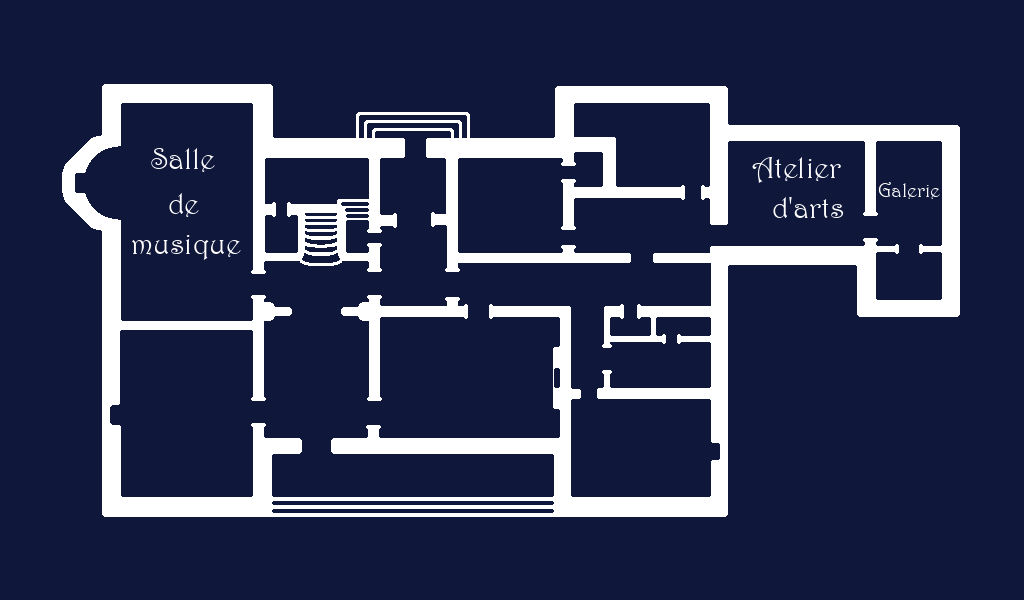
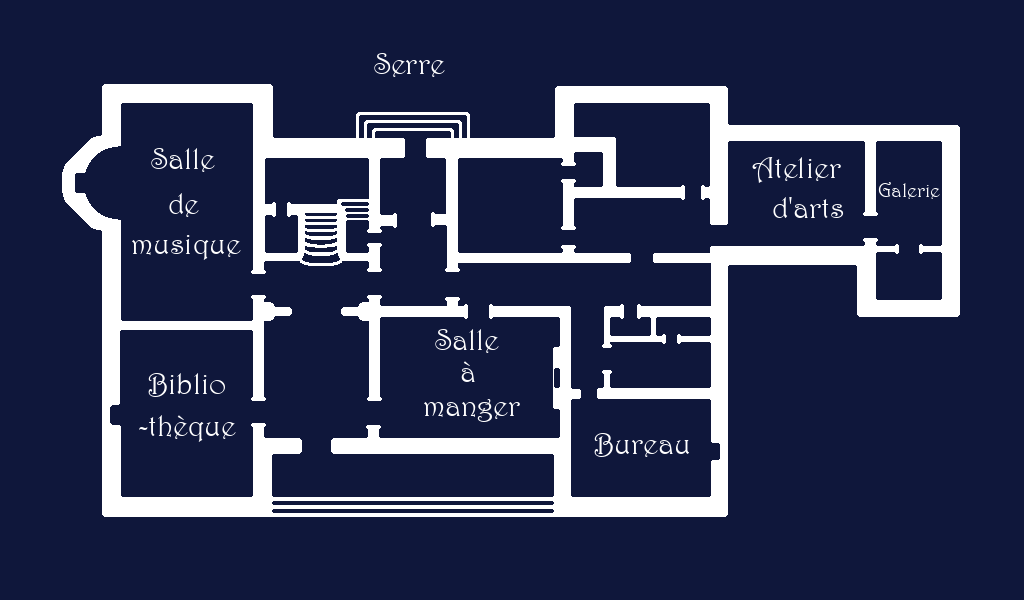
[WIP] Manoir

diff --git a/src/app/pages/manor/dining-room/dining-room.component.ts b/src/app/pages/manor/dining-room/dining-room.component.ts
@@ -1,0 +1,128 @@
+import { Component } from '@angular/core';
+import { CommonModule, KeyValue } from '@angular/common';
+
+import { TopBarComponent } from '../../../components/ui/top-bar/top-bar.component';
+
+@Component({
+    selector: 'app-dining-room',
+    imports: [
+        CommonModule,
+        TopBarComponent
+    ],
+    templateUrl: './dining-room.component.html',
+    styleUrl: './dining-room.component.scss'
+})
+export class DiningRoomComponent {
+    imgPath:string = '/assets/images/manor/dining-room/';
+    pageText:string = "Texte d'explication de la page";
+    digitsRotation = 0;
+    symbolsRotation = 0;
+    digits:object = {
+        1: {
+            'value': 1,
+            'rotation': 30
+        },
+        2: {
+            'value': 2,
+            'rotation': 60
+        },
+        3: {
+            'value': 3,
+            'rotation': 90
+        },
+        4: {
+            'value': 4,
+            'rotation': 120
+        },
+        5: {
+            'value': 5,
+            'rotation': 150
+        },
+        6: {
+            'value': 6,
+            'rotation': 180
+        },
+        7: {
+            'value': 7,
+            'rotation': -150
+        },
+        8: {
+            'value': 8,
+            'rotation': -120
+        },
+        9: {
+            'value': 9,
+            'rotation': -90
+        },
+        10: {
+            'value': 10,
+            'rotation': -60
+        },
+        11: {
+            'value': 11,
+            'rotation': -30
+        },
+        12: {
+            'value': 12,
+            'rotation': 0
+        }
+    };
+    symbols:object = {
+        1: {
+            'value': 1,
+            'rotation': -15
+        },
+        2: {
+            'value': 2,
+            'rotation': 15
+        },
+        3: {
+            'value': 3,
+            'rotation': 45
+        },
+        4: {
+            'value': 4,
+            'rotation': 75
+        },
+        5: {
+            'value': 5,
+            'rotation': 105
+        },
+        6: {
+            'value': 6,
+            'rotation': 135
+        },
+        7: {
+            'value': 7,
+            'rotation': 165
+        },
+        8: {
+            'value': 8,
+            'rotation': -165
+        },
+        9: {
+            'value': 9,
+            'rotation': -135
+        },
+        10: {
+            'value': 10,
+            'rotation': -105
+        },
+        11: {
+            'value': 11,
+            'rotation': -75
+        },
+        12: {
+            'value': 12,
+            'rotation': -45
+        }
+    };
+
+    setDigitsRotation(value:number) {
+        this.digitsRotation = value;
+    }
+
+    setSymbolsRotation(value:number) {
+        this.symbolsRotation = value;
+    }
+}

diff --git a/src/app/pages/manor/dining-room/dining-room.component.scss b/src/app/pages/manor/dining-room/dining-room.component.scss
@@ -1,0 +1,104 @@
+@use "../../../../styles/includes.scss" as *;
+
+.app_dining_room {
+	overflow: auto;
+
+	&__box {
+		@include flexCenter;
+		min-height: calc(100vh - $topBarHeight);
+		min-width: 690px;
+		background: #0f272f;
+	}
+
+	&__clock {
+		width: 690px;
+		height: 700px;
+		position: relative;
+	}
+
+	&__hand {
+		position: absolute;
+		width: 300px;
+		height: 300px;
+		left: 0;
+		right: 0;
+		bottom: 0;
+		top: 0;
+		margin: auto;
+
+		img {
+			position: absolute;
+			left: 0;
+			right: 0;
+			margin: auto;
+		}
+
+		&--digits img {	
+			bottom: calc(50% - 14px);
+		}
+
+		&--symbols img {	
+			bottom: calc(50% - 14px);
+		}
+	}
+
+	&__list_triggers {
+		pointer-events: none;
+
+		li {
+			position: absolute;
+			left: 0;
+			right: 0;
+			margin: auto;
+			text-align: center;
+
+			> span {
+				display: block;
+			}
+		}
+
+		&--digits {
+			position: absolute;
+			width: 332px;
+			height: 332px;
+			top: 186px;
+			left: 180px;
+
+			li {
+				top: 0;
+				height: 100%;
+				width: 50px;
+			}
+		}
+
+		&--symbols {
+			position: absolute;
+			width: 575px;
+			height: 565px;
+			top: 70px;
+			left: 60px;
+
+			li {
+				top: 0;
+				height: 100%;
+				width: 100px;
+			}
+		}
+	}
+
+	&__digit {
+		pointer-events: all;
+		display: block;
+		width: 100%;
+		height: 70px;
+		cursor: pointer;
+	}
+
+	&__symbol {
+		pointer-events: all;
+		display: block;
+		width: 100%;
+		height: 90px;
+		cursor: pointer;
+	}
+}

diff --git a/src/app/pages/manor/dining-room/dining-room.component.html b/src/app/pages/manor/dining-room/dining-room.component.html
@@ -1,0 +1,24 @@
+<app-top-bar [backLink]="'/manoir/carte'" [pageText]="pageText"></app-top-bar>
+<div class="app_dining_room">
+	<div class="app_dining_room__box">
+		<div class="app_dining_room__clock">
+			<img [src]="imgPath + 'clock.png'"/>
+			<div class="app_dining_room__hand app_dining_room__hand--digits" [style]="'transform: rotate(' + digitsRotation + 'deg);'">
+				<img [src]="imgPath + 'hand_digits.png'"/>
+			</div>
+			<div class="app_dining_room__hand app_dining_room__hand--symbols" [style]="'transform: rotate(' + symbolsRotation + 'deg);'">
+				<img [src]="imgPath + 'hand_symbols.png'"/>
+			</div>
+			<ul class="app_dining_room__list_triggers app_dining_room__list_triggers--symbols">
+				<li *ngFor="let symbol of symbols|keyvalue" [style]="'transform: rotate(' + symbol.value['rotation'] + 'deg);'">
+					<button class="app_dining_room__symbol" [attr.data-val]="symbol.value['value']" (click)="setSymbolsRotation(symbol.value['rotation'])"></button>
+				</li>
+			</ul>
+			<ul class="app_dining_room__list_triggers app_dining_room__list_triggers--digits">
+				<li *ngFor="let digit of digits|keyvalue" [style]="'transform: rotate(' + digit.value['rotation'] + 'deg);'">
+					<button class="app_dining_room__digit" [attr.data-val]="digit.value['value']" (click)="setDigitsRotation(digit.value['rotation'])"></button>
+				</li>
+			</ul>
+		</div>
+	</div>
+</div>

diff --git a/src/app/pages/manor/map/map.component.html b/src/app/pages/manor/map/map.component.html
@@ -1,13 +1,15 @@
 <app-top-bar [pageText]="pageText"></app-top-bar>
 <div class="app_map">
-	<div class="app_map__box">
-		<img class="app_map__picture" [src]="imgPath + 'map.png'"/>
-		<a
-			class="app_map__room"
-			*ngFor="let room of rooms|keyvalue"
-			[href]="room.value['href']"
-			[title]="room.value['name']"
-			[style]="'top:' + room.value['posY'] + '; left:' + room.value['posX'] + '; width:' + room.value['width'] + '; height:' + room.value['height'] + ';' "
-		></a>
+	<div class="app_map__container">
+		<div class="app_map__box">
+			<img class="app_map__picture" [src]="imgPath + 'map.png'"/>
+			<a
+				class="app_map__room"
+				*ngFor="let room of rooms|keyvalue"
+				[href]="room.value['href']"
+				[title]="room.value['name']"
+				[style]="'top:' + room.value['posY'] + '; left:' + room.value['posX'] + '; width:' + room.value['width'] + '; height:' + room.value['height'] + ';' "
+			></a>
+		</div>
 	</div>
 </div>

diff --git a/src/app/pages/manor/map/map.component.ts b/src/app/pages/manor/map/map.component.ts
@@ -1,6 +1,5 @@
 import { Component } from '@angular/core';
-import { CommonModule } from '@angular/common';
-import {KeyValue} from '@angular/common';
+import { CommonModule, KeyValue } from '@angular/common';
 
 import { TopBarComponent } from '../../../components/ui/top-bar/top-bar.component';
 
@@ -39,6 +38,22 @@ export class MapComponent {
             'posY': '23%',
             'width': '7%',
             'height': '18%'
+        },
+        3: {
+            'name': 'Serre',
+            'href': '/manoir/greenhouse',
+            'posX': '27%',
+            'posY': '0%',
+            'width': '27%',
+            'height': '23%'
+        },
+        4: {
+            'name': 'Salle à manger',
+            'href': '/manoir/dining-room',
+            'posX': '37%',
+            'posY': '53%',
+            'width': '18%',
+            'height': '20%'
         }
     };
     pageText:string = "Texte d'explication de la page";

diff --git a/src/app/app.routes.ts b/src/app/app.routes.ts
@@ -5,6 +5,7 @@ import { ArtRoomComponent } from './pages/manor/art-room/art-room.component';
 import { MusicRoomComponent } from './pages/manor/music-room/music-room.component';
 import { GalleryComponent } from './pages/manor/gallery/gallery.component';
 import { GreenhouseComponent } from './pages/manor/greenhouse/greenhouse.component';
+import { DiningRoomComponent } from './pages/manor/dining-room/dining-room.component';
 
 export const routes: Routes = [
 	{
@@ -29,7 +30,12 @@ export const routes: Routes = [
 	},
 	{
 	    path: 'manoir/greenhouse',
-	    title: 'Greenhouse',
+	    title: 'Serre',
 	    component: GreenhouseComponent,
+	},
+	{
+	    path: 'manoir/dining-room',
+	    title: 'Salle à manger',
+	    component: DiningRoomComponent,
 	}
 ];

diff --git a/src/app/pages/manor/dining-room/dining-room.component.spec.ts b/src/app/pages/manor/dining-room/dining-room.component.spec.ts
@@ -1,0 +1,23 @@
+import { ComponentFixture, TestBed } from '@angular/core/testing';
+
+import { DiningRoomComponent } from './dining-room.component';
+
+describe('DiningRoomComponent', () => {
+  let component: DiningRoomComponent;
+  let fixture: ComponentFixture<DiningRoomComponent>;
+
+  beforeEach(async () => {
+    await TestBed.configureTestingModule({
+      imports: [DiningRoomComponent]
+    })
+    .compileComponents();
+
+    fixture = TestBed.createComponent(DiningRoomComponent);
+    component = fixture.componentInstance;
+    fixture.detectChanges();
+  });
+
+  it('should create', () => {
+    expect(component).toBeTruthy();
+  });
+});

diff --git a/src/app/pages/manor/map/map.component.scss b/src/app/pages/manor/map/map.component.scss
@@ -4,10 +4,14 @@
 	background: #0f173b;
 	overflow: auto;
 
-	&__box {
-		position: relative;
+	&__container {		
 		@include flexCenter;
 		min-height: calc(100vh - $topBarHeight);
+		min-width: 1024px;
+	}
+
+	&__box {
+		position: relative;
 		min-width: 1024px;
 		height: 600px;
 	}
@@ -18,7 +22,7 @@
 		opacity: .3;
 
 		&:not(:hover) {
-			opacity: 0;
+			// opacity: 0;
 		}
 	}
 }

diff --git a/src/app/app.component.html b/src/app/app.component.html
@@ -5,4 +5,5 @@
 	<li><a href="/manoir/galerie">GALERIE</a></li>
 	<li><a href="/manoir/salle-de-musique">SALLE DE MUSIQUE</a></li>
 	<li><a href="/manoir/greenhouse">SERRE</a></li>
+	<li><a href="/manoir/dining-room">SALLE A MANGER</a></li>
 </ul>
